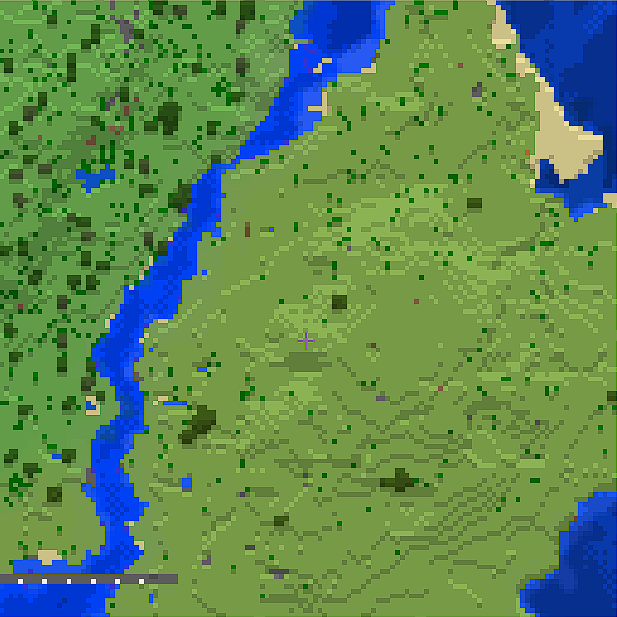
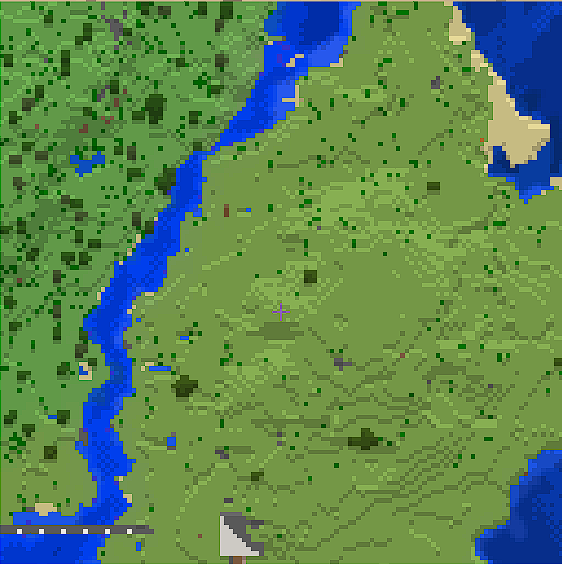
マップを更新

diff --git a/index.html b/index.html
@@ -72,7 +72,7 @@
     var image12 = L.imageOverlay('mapData/-1_-1.png?ver=1.1'+mapVersion, [[-500, -500], [0, 0]]).addTo(map);
     var image13 = L.imageOverlay('mapData/-1_2.png?ver=1.1'+mapVersion, [[-500, 500 * 2], [0, 500 * 3]]).addTo(map);
     var image14 = L.imageOverlay('mapData/0_2.png?ver=1.1'+mapVersion, [[0, 500 * 2], [500, 500 * 3]]).addTo(map);
-    var image15 = L.imageOverlay('mapData/1_2.png?ver=1.1'+mapVersion, [[500, 500 * 2], [500 * 2, 500 * 3]]).addTo(map);
+    var image15 = L.imageOverlay('mapData/1_2.png?ver=1.2'+mapVersion, [[500, 500 * 2], [500 * 2, 500 * 3]]).addTo(map);
     var image16 = L.imageOverlay('mapData/2_0.png?ver=1.1'+mapVersion, [[500 * 2, 0], [500 * 3, 500]]).addTo(map);
     var image17 = L.imageOverlay('mapData/2_1.png?ver=1.1'+mapVersion, [[500 * 2, 500], [500 * 3, 500 * 2]]).addTo(map);
     var image18 = L.imageOverlay('mapData/3_0.png?ver=1.1'+mapVersion, [[500 * 3, 0], [500 * 4, 500]]).addTo(map);
@@ -205,6 +205,8 @@
     .bindPopup('<h2>月玉農場</h2><p>座標: -681 63 645<br>制作者: 月玉</p><img style="width: 300px;" src="images/tsukitama_house.jpeg">');
     var marker58   = L.marker([400, 300]).addTo(map)
     .bindPopup('<h2>マセイモ航空 MASE-300YEN</h2><p>制作者: 塩ポテト君</p><img style="width: 300px;" src="images/imo_airplane.jpeg">');
+    var marker59   = L.marker([520, 1210]).addTo(map)
+    .bindPopup('<h2>あかみハウス</h2><p>座標: 1569 70 701<br>制作者: あかみ</p><img style="width: 300px;" src="images/akami_house.jpeg">');
     
     // 線路用のレイヤーグループを作る
     var railwayLayer = L.layerGroup([]);
